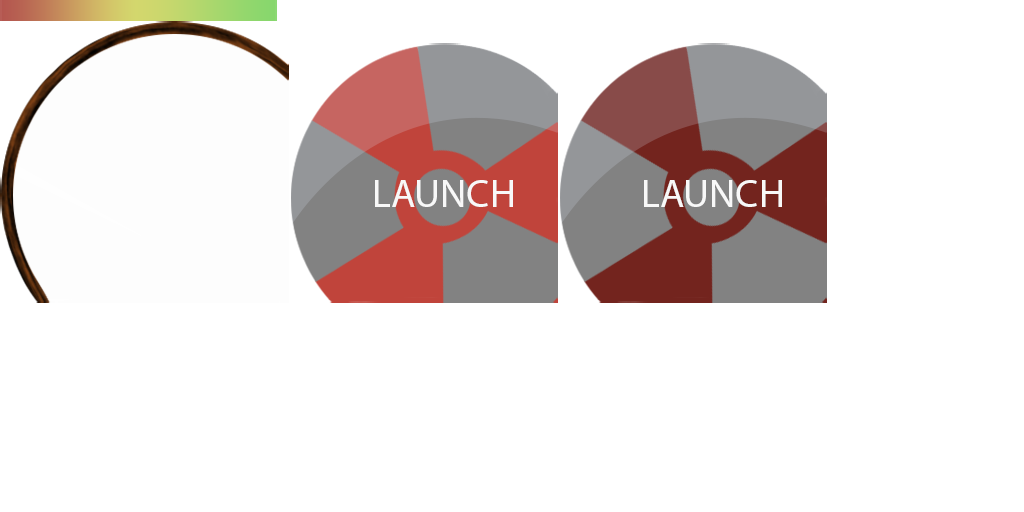
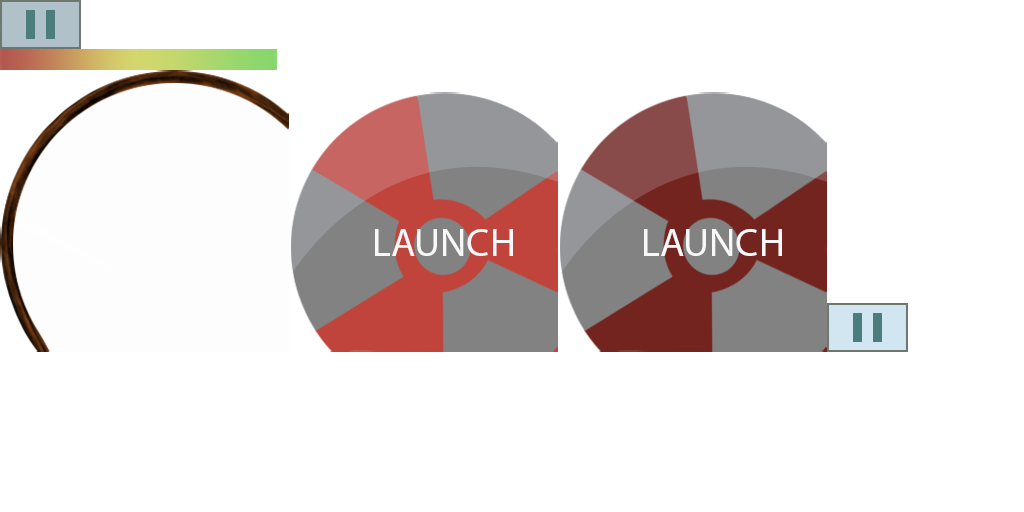
Added pause button to hud view

Changed region(s): [[0.0, 0.0, 0.9062, 0.6875]]

diff --git a/Bullet-Inferno/src/se/dat255/bulletinferno/view/gui/HudView.java b/Bullet-Inferno/src/se/dat255/bulletinferno/view/gui/HudView.java
@@ -11,7 +11,6 @@ import com.badlogic.gdx.scenes.scene2d.ui.Image;
 import com.badlogic.gdx.scenes.scene2d.ui.Label;
 import com.badlogic.gdx.scenes.scene2d.ui.Label.LabelStyle;
 import com.badlogic.gdx.scenes.scene2d.ui.Skin;
-import com.badlogic.gdx.scenes.scene2d.utils.TextureRegionDrawable;
 import com.badlogic.gdx.utils.Disposable;
 
 public class HudView implements Disposable {
@@ -21,22 +20,22 @@ public class HudView implements Disposable {
 	private final Label coinLabel;
 	private final Image bar;
 	private final Image specialAbilityButtonBg;
-	private final Button specialAbilityButton;
+	private final Button specialAbilityButton, pauseButton;
 	private final Stage stage;
 	
 	private final TextureRegion healthTexture;
 	private final Image healthBar;
 	
-	public HudView(Stage stage, ResourceManager resourceManager) {
+	public HudView(Stage stage, ResourceManager resources) {
 		this.stage = stage;
 		
-		Skin skin = resourceManager.getSkin();
+		Skin skin = resources.getSkin();
 		
 		if(stage.getHeight() != VIRTUAL_HEIGHT || stage.getWidth() != VIRTUAL_WIDTH) {
 			stage.setViewport(VIRTUAL_WIDTH, VIRTUAL_HEIGHT, false);
 		}
 		
-		bar = new Image(resourceManager.getTexture(TextureDefinitionImpl.HUD_BAR));
+		bar = new Image(resources.getTexture(TextureDefinitionImpl.HUD_BAR));
 		bar.setPosition(0, VIRTUAL_HEIGHT - bar.getHeight());
 		stage.addActor(bar);
 		
@@ -49,18 +48,25 @@ public class HudView implements Disposable {
 		stage.addActor(coinLabel);
 		
 		specialAbilityButtonBg = new Image(
-				resourceManager.getTexture(TextureDefinitionImpl.HUD_SPECIALABILITY_BACKGROUND));
+				resources.getTexture(TextureDefinitionImpl.HUD_SPECIALABILITY_BACKGROUND));
 		specialAbilityButtonBg.setPosition(VIRTUAL_WIDTH - specialAbilityButtonBg.getWidth() , 0);
 		stage.addActor(specialAbilityButtonBg);
 		
 		specialAbilityButton = new Button(
-				resourceManager.getDrawableTexture(TextureDefinitionImpl.HUD_SPECIALABILITY_BUTTON),
-				resourceManager.getDrawableTexture(
+				resources.getDrawableTexture(TextureDefinitionImpl.HUD_SPECIALABILITY_BUTTON),
+				resources.getDrawableTexture(
 						TextureDefinitionImpl.HUD_SPECIALABILITY_BUTTON_DOWN));
 		specialAbilityButton.setPosition(VIRTUAL_WIDTH - specialAbilityButton.getWidth(), 0);
 		stage.addActor(specialAbilityButton);
 		
-		healthTexture = resourceManager.getTexture(TextureDefinitionImpl.HUD_BARMETER_GRADIENT);
+		pauseButton = new Button(
+				resources.getDrawableTexture(TextureDefinitionImpl.HUD_PAUSE_BUTTON),
+				resources.getDrawableTexture(TextureDefinitionImpl.HUD_PAUSE_BUTTON_DOWN)
+				);
+		pauseButton.setPosition(stage.getWidth() - 110, bar.getY() + 78);
+		stage.addActor(pauseButton);
+		
+		healthTexture = resources.getTexture(TextureDefinitionImpl.HUD_BARMETER_GRADIENT);
 		healthBar = new Image(healthTexture);
 		healthBar.setWidth(275);
 		healthBar.setPosition(772, bar.getY() + 92);
@@ -77,6 +83,14 @@ public class HudView implements Disposable {
 		specialAbilityButton.removeListener(listener);
 	}
 
+	public void addPauseButtonListener(EventListener listener) {
+		pauseButton.addListener(listener);
+	}
+	
+	public void removePauseButtonListener(EventListener listener) {
+		pauseButton.removeListener(listener);
+	}
+	
 	private int cachedScore = 0;
 	public void setScore(int score) {
 		if(score != cachedScore) {
@@ -105,7 +119,7 @@ public class HudView implements Disposable {
 			if(x < 0) {
 				x = 0;
 			}
-			
+
 			healthTexture.setRegion(x, 0, 5, BARMETER_HEIGHT);
 			healthBar.setWidth(BARMETER_WIDTH * health);
 			cachedHealth = health;

diff --git a/Bullet-Inferno/src/se/dat255/bulletinferno/util/TextureDefinitionImpl.java b/Bullet-Inferno/src/se/dat255/bulletinferno/util/TextureDefinitionImpl.java
@@ -181,7 +181,9 @@ public enum TextureDefinitionImpl implements TextureDefinition {
 	HUD_SPECIALABILITY_BACKGROUND(textureAtlas("images/game/gameui.atlas", "specialabilitybuttonbackground")),
 	HUD_SPECIALABILITY_BUTTON(textureAtlas("images/game/gameui.atlas", "specialabilitybutton")),
 	HUD_SPECIALABILITY_BUTTON_DOWN(textureAtlas("images/game/gameui.atlas", "specialabilitybutton_down")),
-	HUD_BARMETER_GRADIENT(textureAtlas("images/game/gameui.atlas", "barmetergradient")),
+	HUD_BARMETER_GRADIENT(texture("images/game/barmetergradient.png")),
+	HUD_PAUSE_BUTTON(textureAtlas("images/game/gameui.atlas", "pausebutton")),
+	HUD_PAUSE_BUTTON_DOWN(textureAtlas("images/game/gameui.atlas", "pausebutton_down")),
 	;
 
 	private TextureHolder holder;
